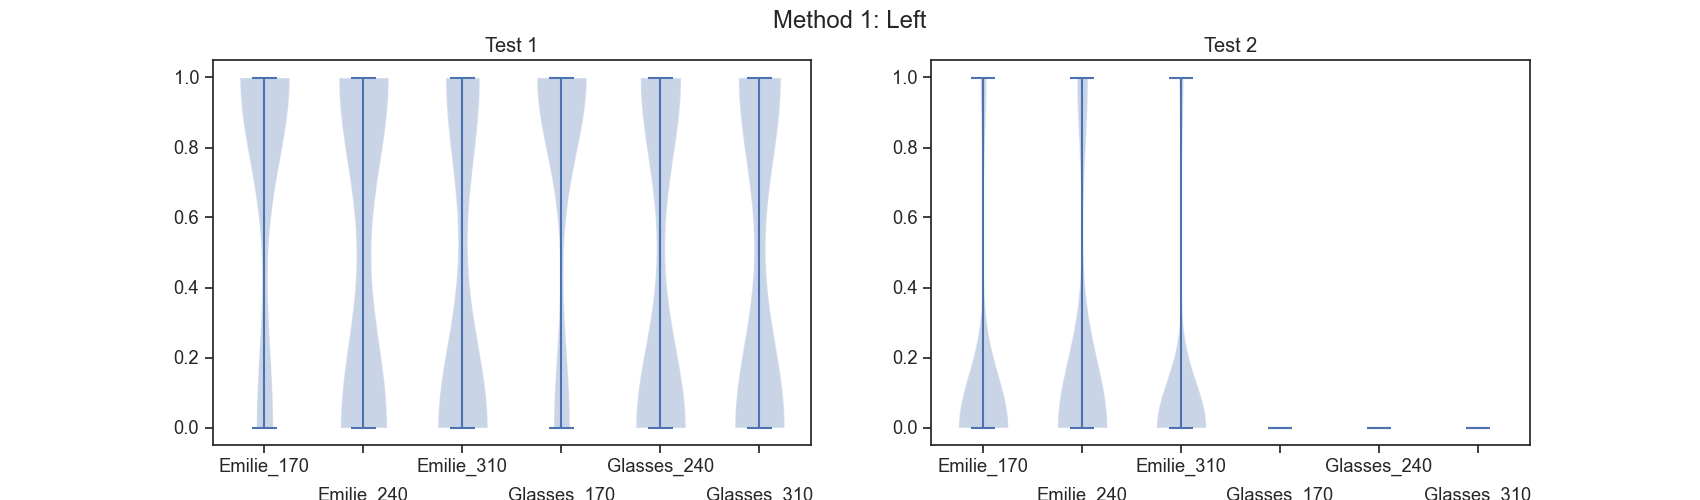
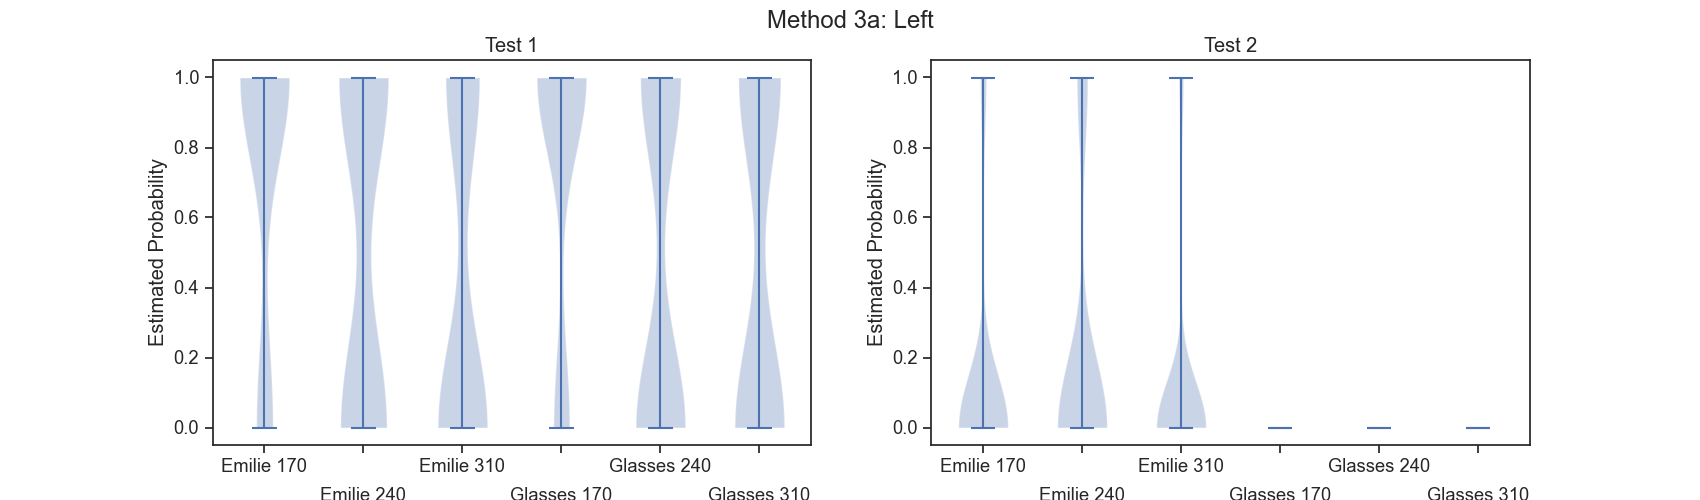
labels

diff --git a/Estimating_individuals_perspectives/Analyse_data/analyse_data.py b/Estimating_individuals_perspectives/Analyse_data/analyse_data.py
@@ -7,7 +7,7 @@ from scipy.stats import mannwhitneyu
 class AnalyseData:
     def __init__(self):
         sns.set_theme(style="ticks", font_scale=1.2)
-        self.directory = "../../Test_data/Test1_Test2/Results_hele_klip/results_test1_test2.json"
+        self.directory = "../../Test_data/Test1_Test2/Hele_Result/results_test1_test2.json"
         self.directory_divided = "../../Test_data/Test1_Test2/Opdelt_30_Result/results_test1_test2.json"
         self.dir_results = ["face", "avg", "first", "30"]
         self.dir_input = ["Opdelt_face_Result", "Opdelt_avg_Result", "Opdelt_Result", "Opdelt_30_Result"]
@@ -15,42 +15,16 @@ class AnalyseData:
         self.folder = ["face", "avg", "first", "30"]
 
     def main(self):
-        #data = self.get_data()
-        #_, test1, test2 = self.get_condition_keys_data(data)
+        # plot based on full videos using original results
+        data = self.get_data()
+        _, test1, test2 = self.get_condition_keys_data(data)
+        self.plot_test(data,test1,"Test 1", "../result/test1.png", save_plot=True)
+        self.plot_test(data,test2,"Test 2", "../result/test2.png", save_plot=True)
+        self.plot_test(data, test1+test2, "Test 1 and Test 2", "../result/test1_test2.png", save_plot=True)
+        self.plot_average_both(data, test1, test2, "../result/average.png", save_plot=True)
+        self.plot_violinplot(data, test1, test2,"../result/violin.png", save_plot=True)
 
-        #self.plot_test(data,test1,"Test 1")
-        #plt.savefig("../result/test1.png")
-        #self.plot_test(data,test2,"Test 2")
-        #plt.savefig("../result/test2.png")
-        #self.plot_test(data, test1+test2, "Test 1 and Test 2")
-        #plt.savefig("../result/test1_test2.png")
-        #self.plot_average_both(data, test1, test2)
-        #plt.savefig("../result/average.png")
-
-        #self.plot_violinplot(data, test1, test2)
-        #plt.savefig("../result/violin.png")
-
-        data_divided = self.get_data_dir(self.directory_divided)
-
-        _, keys1 = self.get_orientation_keys_data(data_divided, "test1")
-        #self.plot_violinplot_orientation(data_divided, keys1, [2,2], ["","Right","Front","Left"], "All")
-        #plt.savefig("../result/face/violin_test1.png")
-
-        _, keys2 = self.get_orientation_keys_data(data_divided, "test2")
-        #self.plot_violinplot_orientation(data_divided, keys2, [2,2],["Back","Right","Front","Left"], "All")
-        #plt.savefig("../result/face/violin_test2.png")
-
-        #self.plot_violinplot_orientation(data_divided, [keys1[1], keys2[1]] , [1,2],["Test 1","Test 2"], "Right")
-        #plt.savefig("../result/first/violin_right.png")
-        #self.plot_violinplot_orientation(data_divided, [keys1[2], keys2[2]], [1, 2], ["Test 1", "Test 2"], "Front")
-        #plt.savefig("../result/first/violin_front.png")
-        #self.plot_violinplot_orientation(data_divided, [keys1[3], keys2[3]], [1, 2], ["Test 1", "Test 2"], "Left")
-        self.plot_violinplot_orientation(data_divided, [keys2[0]], [1, 1], ["Test 2"], "Back")
-        plt.savefig("../result/30/violin_back.png")
-        #plt.savefig("../result/first/violin_left.png")
-        #plt.show()
-
-
+        # plot all methods (new results)
         for i in range(len(self.dir_results)):
             dir = "../../Test_data/Test1_Test2/" + self.dir_input[i] + "/results_test1_test2.json"
             data_divided = self.get_data_dir(dir)
@@ -58,6 +32,11 @@ class AnalyseData:
             _, keys1 = self.get_orientation_keys_data(data_divided, "test1")
             _, keys2 = self.get_orientation_keys_data(data_divided, "test2", False)
             self.plot_violinplot_all(data_divided, [self.flatten(keys1), self.flatten(keys2)], self.folder[i], self.methods[i])
+            self.plot_violinplot_orientation(data_divided, [keys1[1], keys2[1]], [1, 2], ["Test 1", "Test 2"], "Right", self.folder[i], True)
+            self.plot_violinplot_orientation(data_divided, [keys1[2], keys2[2]], [1, 2], ["Test 1", "Test 2"], "Front", self.folder[i], True)
+            self.plot_violinplot_orientation(data_divided, [keys1[3], keys2[3]], [1, 2], ["Test 1", "Test 2"], "Left", self.folder[i], True)
+            _, keys2 = self.get_orientation_keys_data(data_divided, "test2", True)
+            self.plot_violinplot_orientation(data_divided, [keys2[0]], [1, 1], ["Test 2"], "Back", self.folder[i], True)
 
             time, parts = self.get_time_keys_data(data_divided)
             self.plot_violinplot_time(data_divided, time, parts, self.methods[i])
@@ -102,7 +81,7 @@ class AnalyseData:
     def flatten(self, data):
         return [ p for f in data for p in f]
 
-    def plot_test(self, data, keys, title):
+    def plot_test(self, data, keys, title, save_title, save_plot=False):
         filtered_data = self.get_data_from_keys(data, keys)
         plt.figure(figsize=(10,6))
         for data_type in filtered_data:
@@ -120,7 +99,9 @@ class AnalyseData:
         plt.legend()
         plt.xlabel("Frames")
         plt.ylabel("Cumulative Probability")
-        #plt.show()
+        if save_plot:
+            plt.savefig(save_title)
+        plt.show()
 
     def get_average_data(self, data, keys):
         filtered_data = [[k, self.average(data[k])] for k in keys if k in data and "0-2" not in k]
@@ -130,7 +111,7 @@ class AnalyseData:
         flatten = self.flatten(data)
         return sum(flatten)/len(flatten)
 
-    def plot_average_both(self, data, keys1, keys2):
+    def plot_average_both(self, data, keys1, keys2, save_title, save_plot=False):
         plt.figure(figsize=(8, 6))
 
         # Test 1
@@ -155,7 +136,9 @@ class AnalyseData:
         plt.ylim([0,0.7])
         plt.ylabel("Average Probability")
         plt.legend()
-        #plt.show()
+        if save_plot:
+            plt.savefig(save_title)
+        plt.show()
 
     def get_data_values(self,data, keys):
         filtered_data = {k:self.flatten(data[k]) for k in keys if k in data and "0-2" not in k and "Sade" not in k and "Jonas" not in k}
@@ -168,7 +151,7 @@ class AnalyseData:
     def flatten_divided(self, values):
         return [p['probs'] for f in values for p in values[f]]
 
-    def plot_violinplot(self, data, keys1, keys2):
+    def plot_violinplot(self, data, keys1, keys2, save_title, save_plot=False):
         fig, (ax1, ax2) = plt.subplots(1, 2,figsize=(10, 5))
 
         # Test 1
@@ -188,14 +171,12 @@ class AnalyseData:
         for i, label in enumerate(labels2):
             label.set_y(label.get_position()[1] - (i % 2) * 0.075)
         ax2.set_title("Test 2")
+        if save_plot:
+            plt.savefig(save_title)
+        plt.show()
 
-        #plt.show()
-        # general info
-
-
-
-    def plot_violinplot_orientation(self, data, keys, ax_num, titles, overall_title):
-        size = (15, 10) if ax_num[0] > 1 else (17, 5)
+    def plot_violinplot_orientation(self, data, keys, ax_num, titles, overall_title, save_title, save_plot):
+        size = (15, 10) if ax_num[0] > 1 else (17, 5) if overall_title != "Back" else (8, 5)
         fig, axs = plt.subplots(ax_num[0], ax_num[1], figsize=size)
         i = 0
         j = 0
@@ -208,14 +189,17 @@ class AnalyseData:
                 continue
             ax.violinplot(data1.values())
             ax.set_xticks(range(1, len(data1) + 1))
-            labels1 = ax.set_xticklabels([s[:-11] for s in data1.keys()])
+            labels1 = ax.set_xticklabels([s[:-11].replace("_"," ") for s in data1.keys()])
             for l, label in enumerate(labels1):
                 label.set_y(label.get_position()[1] - (l % 2) * 0.075)
             ax.set_title(titles[i])
+            ax.set_ylabel("Estimated Probability")
             i += 1
             j = j + 1 if i % 2 == 0 else j
         fig.suptitle("Method 3a: "+overall_title)
-        #plt.show()
+        if save_plot:
+            plt.savefig("../result/"+save_title+"/violin_"+overall_title+".png")
+        plt.show()
 
     def flatten_dict(self, values):
         return self.flatten([values[k] for k in values])
@@ -228,31 +212,24 @@ class AnalyseData:
         plt.violinplot([data1, data2])
         plt.xticks(range(1, 3), ["Test 1", "Test 2"])
         plt.title("Method "+m_name)
-        plt.ylabel("Probability Estimation")
+        plt.ylabel("Estimated Probability")
         if save:
             plt.savefig("../result/" + name + "/violin_combined.png")
 
-        print("----" + "Time for Method " + name)
 
-        print(len(data1))
-        print(np.mean(data1))
-        print(np.median(data1))
-        print(np.min(data1))
-        print(np.max(data1))
-        print("data2")
-        print(len(data2))
-        print(np.mean(data2))
-        print(np.median(data2))
-        print(np.min(data2))
-        print(np.max(data2))
-        print(np.sum(data1), np.sum(data2))
+        data_all = [data1,data2]
+        for i in range(2):
+            print("---- Test"+str(i+1)+" ----")
+            print("number of elements "+str(len(data_all[i])))
+            print("mean: "+str(np.mean(data_all[i]))+", median: "+str(np.median(data_all[i])))
+            print("min: "+str(np.min(data_all[i]))+", max: "+str(np.max(data_all[i])))
         data1 = np.array(data1)
         data2 = np.array(data2)
-        print(len(data1[data1 > 0.5]), len(data2[data2 > 0.5]))
+        print("number of test 1 over 0.5: "+str(len(data1[data1 > 0.5])),
+              "number of test 2 over 0.5: "+str(len(data2[data2 > 0.5])))
         stat, p = mannwhitneyu(data1, data2)
         print('Statistics=%.3f, p=%.3f' % (stat, p))
-        alpha = 0.05
-        if p > alpha:
+        if p > 0.05:
             print('Same distribution (fail to reject H0)')
         else:
             print('Different distribution (reject H0)')
@@ -267,8 +244,8 @@ class AnalyseData:
         axs[0].set_ylabel("Time in secunds")
         if save:
             plt.savefig("../result/time/m"+name+".png")
+        plt.show()
 
-        #plt.show()
         plt.Figure(figsize=(6, 6))
         data1 = [data[k] for k in parts[0]]
         #data2 = [data[k] for k in parts[1]]
@@ -283,12 +260,10 @@ class AnalyseData:
 
         print("----"+"Time for Method "+name)
         for d in [data_time, data1, data3]:
-            print("new")
-            print(len(d))
-            print(np.mean(d))
-            print(np.median(d))
-            print(np.min(d))
-            print(np.max(d))
+            print("---- next ----")
+            print("number of elements "+str(len(d)))
+            print("mean: "+str(np.mean(d))+", median: "+str(np.median(d)))
+            print("min: "+str(np.min(d))+", max: "+str(np.max(d)))
 
 if __name__ == "__main__":
     AnalyseData().main()
